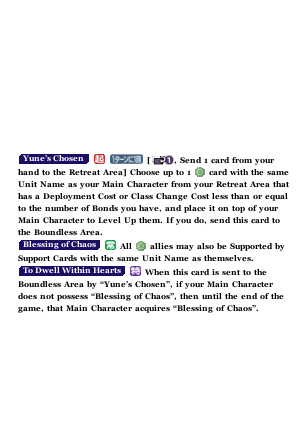
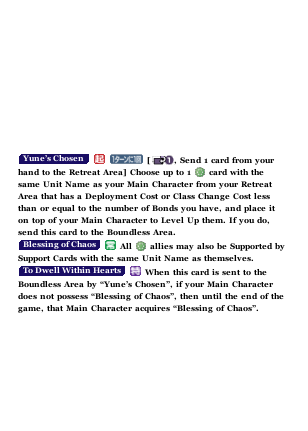
stuff

Changed region(s): [[0.0584, 0.3921, 0.9351, 0.5429]]

diff --git a/basecreation/skillCreator.py b/basecreation/skillCreator.py
@@ -60,7 +60,7 @@ def createSkills(skills, cardName, border, fname, fntsize):
     charwid = 3
     rowheight = 12
     rowextra = 2
-    rowlen = 290
+    rowlen = 285
     rows = get_rows(skills, charwid, rowheight, rowextra, fontsize, attributes, font, rowlen-25)
     print("ROWS:")
     print(rows)
